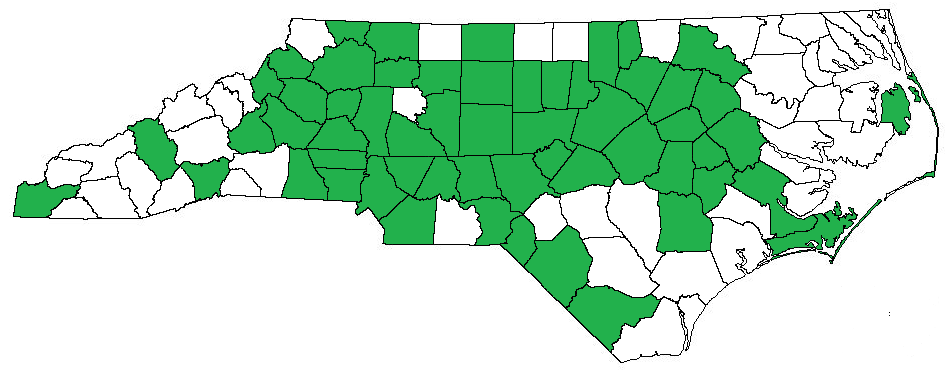
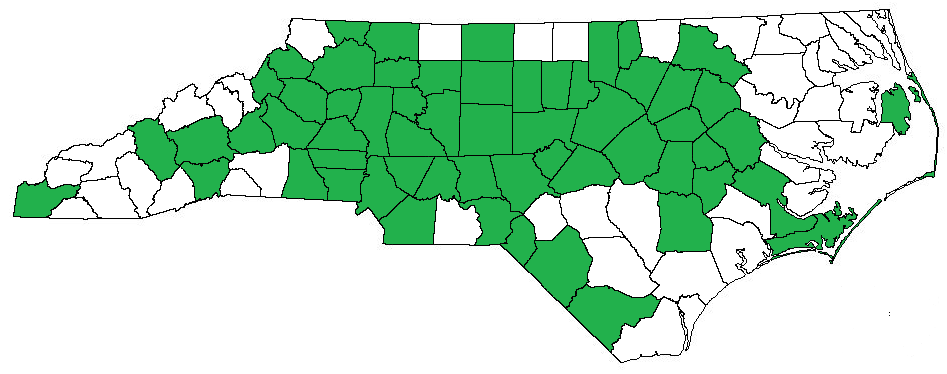
bbq 8/21/22

Changed region(s): [[0.1531, 0.2941, 0.245, 0.4412], [0.3981, 0.2353, 0.4593, 0.3235]]

diff --git a/bbq/bbq-pics.html b/bbq/bbq-pics.html
@@ -91,6 +91,29 @@
 
 
 <br>
+<p><b>Buncombe County</b></p>
+<p>Buxton Hall Barbecue - Asheville</p>
+<p><a id="Buxton"></p>
+<center><img id="image145" img-src="https://s3.us-east-1.wasabisys.com/cwclaib-website/NC-State-Page/bbq/Buxton Hall Barbecue, Asheville/20220821_124842.jpg" width="800"></img></center>
+<center><button type="button"
+        onclick="show( image146, this )" id="btnID">
+        Show Image
+</button></center>
+<center><img id="image147" img-src="https://s3.us-east-1.wasabisys.com/cwclaib-website/NC-State-Page/bbq/Buxton Hall Barbecue, Asheville/20220821_125430.jpg" width="800"></img></center>
+<center><button type="button"
+        onclick="show( image147, this )" id="btnID">
+        Show Image
+</button></center>
+<center><img id="image148" img-src="https://s3.us-east-1.wasabisys.com/cwclaib-website/NC-State-Page/bbq/Buxton Hall Barbecue, Asheville/20220821_130457.jpg" width="800"></img></center>
+<center><button type="button"
+        onclick="show( image148, this )" id="btnID">
+        Show Image
+</button></center>
+
+
+
+
+<br>
 <p><b>Burke County</b></p>
 <p>Louise's Rock House Restaurant - Linville Falls</p>
 <p><a id="Louises"></p>
@@ -334,6 +357,26 @@
 <center><iframe width="800" height="800"
 	src="https://www.youtube.com/embed/cAek_PLTTRE">
 </iframe></center>
+
+<br>
+<p><b>Davie County</b></p>
+<p>CJ's BBQ - Mocksville</p>
+<p><a id="CJs"></p>
+<center><img id="image143 " img-src="https://s3.us-east-1.wasabisys.com/cwclaib-website/NC-State-Page/bbq/CJs BBQ, Mocksville/20220819_185823.jpg" width="800"></img></center>
+<center><button type="button"
+        onclick="show( image143, this )" id="btnID">
+        Show Image
+</button></center>
+<center><img id="image144" img-src="https://s3.us-east-1.wasabisys.com/cwclaib-website/NC-State-Page/bbq/CJs BBQ, Mocksville/20220819_191001.jpg" width="800"></img></center>
+<center><button type="button"
+        onclick="show( image144, this )" id="btnID">
+        Show Image
+</button></center>
+<center><img id="image145" img-src="https://s3.us-east-1.wasabisys.com/cwclaib-website/NC-State-Page/bbq/CJs BBQ, Mocksville/20220819_192759.jpg" width="800"></img></center>
+<center><button type="button"
+        onclick="show( image145, this )" id="btnID">
+        Show Image
+</button></center>
 
 <br>
 <p><b>Duplin County</b></p>

diff --git a/bbq/index.html b/bbq/index.html
@@ -58,10 +58,10 @@
 <br>
 <center>
 	<h2>Current County Counter</h2>
-	<h3><span style="color:red">57</span> / 100</h3>
-	<h3>78 different in-state BBQ joints</h3>
+	<h3><span style="color:red">59</span> / 100</h3>
+	<h3>80 different in-state BBQ joints</h3>
 	<h3>3 annual BBQ events</h3>
-	<p>(last updated 8/9/2022)</p>
+	<p>(last updated 8/21/2022)</p>
 </center>
 <br>
 
@@ -84,6 +84,11 @@
 <p><b>Avery County</b></p>
 <ul>
 	<li>Old Hampton Store &amp Barbeque - Linville - 6/25/2022 - <a href="bbq-pics.html#Hampton">pictures</a></li>
+</ul>
+<br>
+<p><b>Buncombe County</b></p>
+<ul>
+	<li>Buxton Hall Barbecue - Asheville - 8/21/2022 - <i><span class="ncbsbbq">True 'Cue NC</span></i> - <a href="bbq-pics.html#Buxton">pictures</a></li>
 </ul>
 <br>
 <p><b>Burke County</b></p>
@@ -149,6 +154,11 @@
 	<li>Smiley's BBQ (<i><span style="color:red">closed February 2022</span></i>) - Lexington - 12/14/2019 - <i>former NCBS BBQ Trail</i>; <i> former True 'Cue NC</i></li>
 	<!-- https://myfox8.com/news/smileys-lexington-bbq-closing-due-to-road-expansion/ -->
 	<!-- https://myfox8.com/news/north-carolina/piedmont-triad/smileys-lexington-bbq-celebrates-last-hurrah-saturday-before-closing/ -->
+</ul>
+<br>
+<p><b>Davie County</b></p>
+<ul>
+	<li>CJ's BBQ - Mocksville - 8/19/2022 - <a href="bbq-pics.html#CJs">pictures</a></li>
 </ul>
 <br>
 <p><b>Duplin County</b></p>
